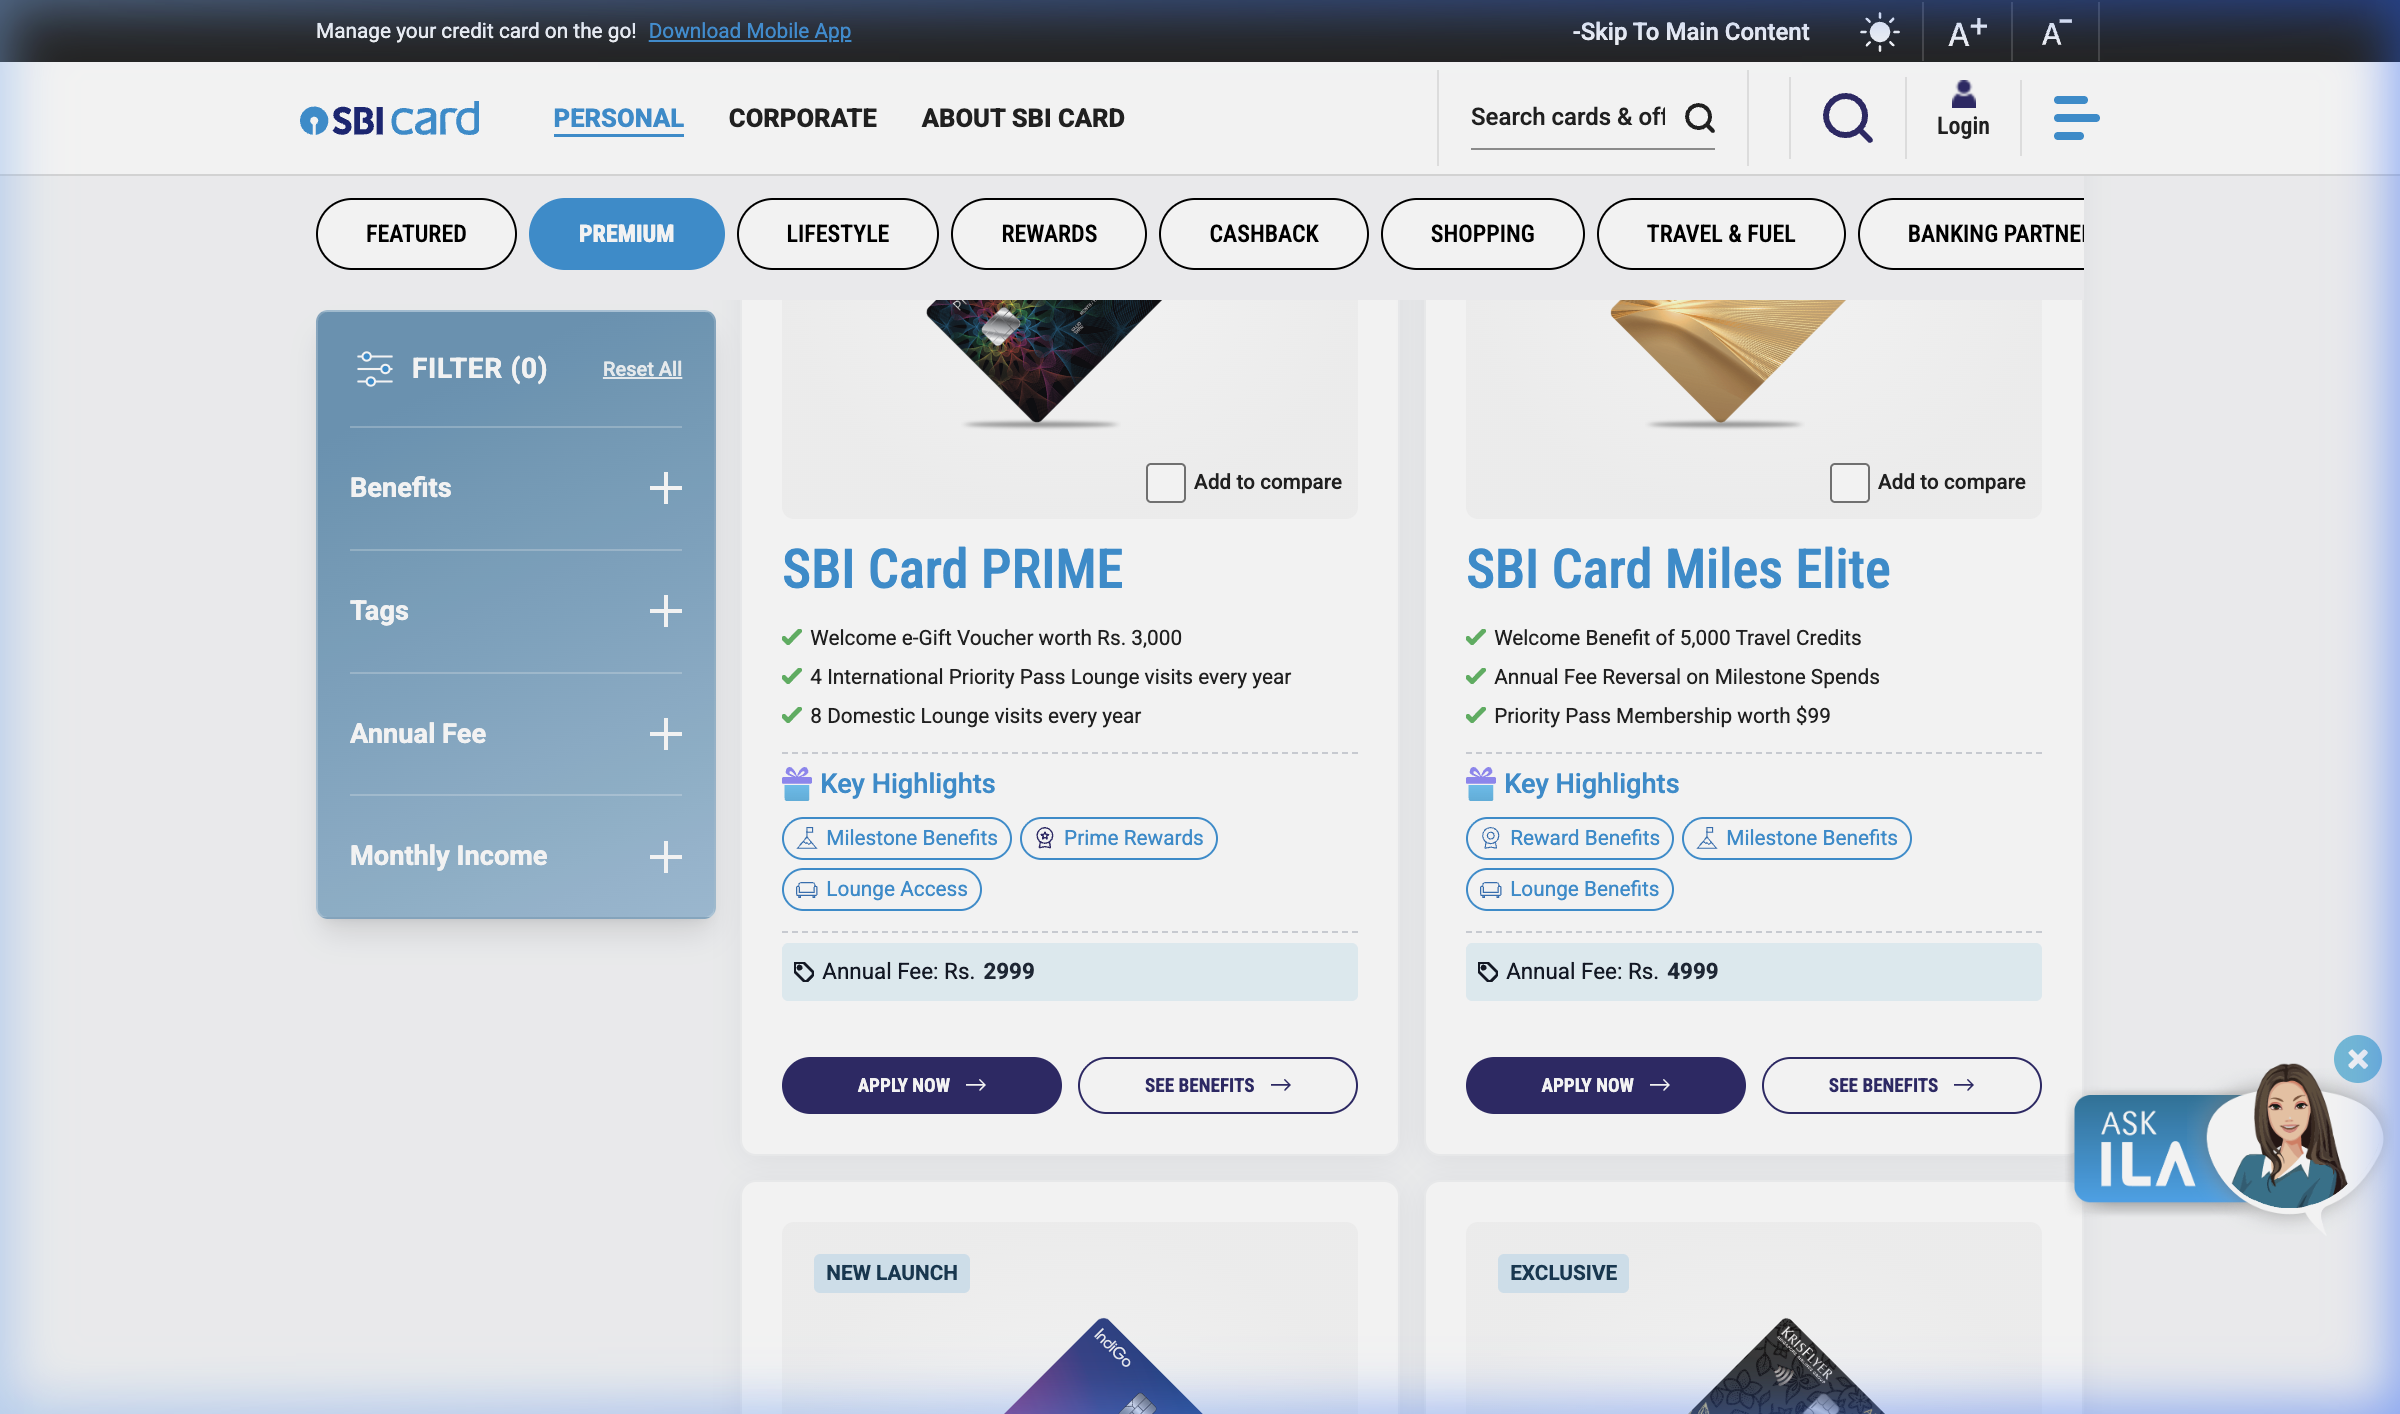
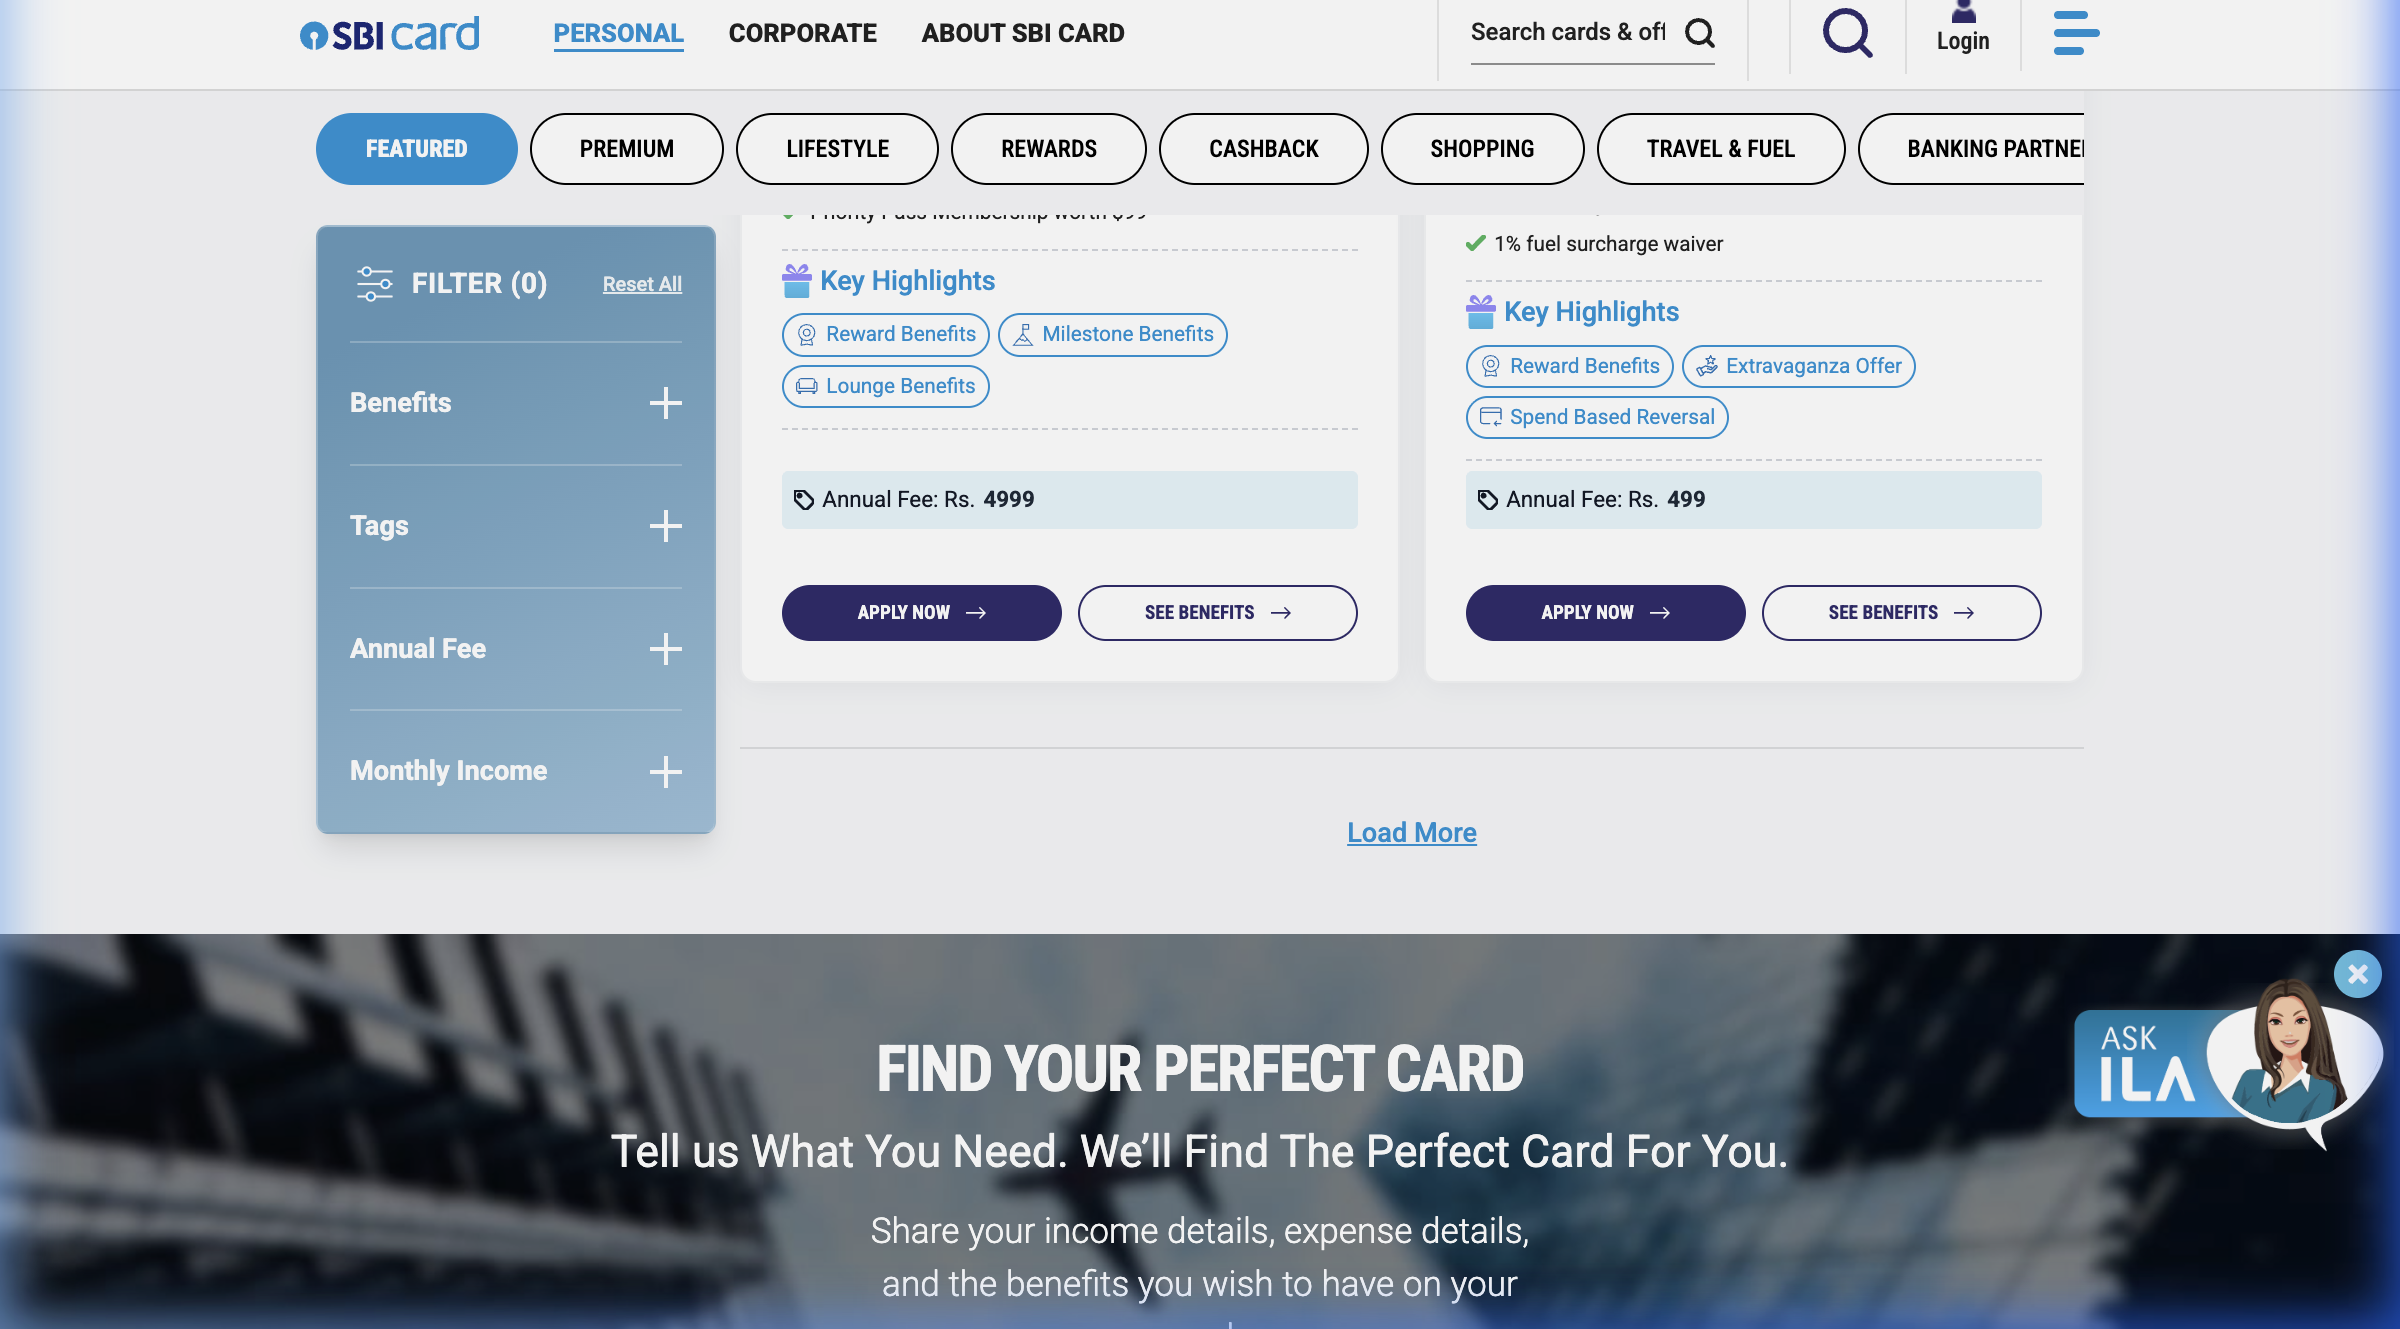
Position the Indian personas image borderless at the absolute bottom-right of the hero section

diff --git a/style.css b/style.css
@@ -338,74 +338,42 @@ body.has-promo .nav {
   justify-content: flex-start;
 }
 
-.hero__mockup-container {
+.hero__right-placeholder {
   position: relative;
-  width: 100%;
-  max-width: 400px;
-  display: flex;
-  justify-content: center;
-  align-items: center;
-  padding: 20px;
-}
-
-.persona-frame {
-  width: 320px;
-  height: 400px;
-  border-radius: 36px;
-  border: 4px solid rgba(255, 255, 255, 0.5);
-  overflow: hidden;
-  position: relative;
-  box-shadow: 0 24px 60px rgba(0, 33, 71, 0.25);
-  background: rgba(255, 255, 255, 0.1);
-  backdrop-filter: blur(10px);
-}
-
-.persona-frame__img {
   width: 100%;
   height: 100%;
-  object-fit: cover;
-  object-position: center bottom;
+  min-height: 480px;
 }
 
-.persona-frame__overlay-card {
+.hero__right {
   position: absolute;
-  bottom: 16px;
-  left: 16px;
-  right: 16px;
-  background: rgba(255, 255, 255, 0.85);
-  backdrop-filter: blur(12px);
-  -webkit-backdrop-filter: blur(12px);
-  border: 1px solid rgba(255, 255, 255, 0.4);
-  border-radius: 18px;
-  padding: 10px 14px;
+  right: 0;
+  bottom: 0;
+  width: 50%;
+  height: 100%;
   display: flex;
-  align-items: center;
-  gap: 10px;
-  box-shadow: 0 8px 24px rgba(0, 33, 71, 0.15);
+  justify-content: flex-end;
+  align-items: flex-end;
+  z-index: 1;
+  pointer-events: none;
 }
 
-.overlay-card__logo img {
-  height: 24px;
-  width: auto;
-}
-
-.overlay-card__info {
+.hero__personas-wrap {
+  width: 100%;
+  height: 100%;
   display: flex;
-  flex-direction: column;
+  justify-content: flex-end;
+  align-items: flex-end;
+  position: relative;
+  -webkit-mask-image: linear-gradient(135deg, transparent 15%, black 45%);
+  mask-image: linear-gradient(135deg, transparent 15%, black 45%);
 }
 
-.overlay-card__label {
-  font-size: 11px;
-  color: var(--color-muted);
-  text-transform: uppercase;
-  letter-spacing: 0.5px;
-  font-weight: 600;
-}
-
-.overlay-card__value {
-  font-size: 13px;
-  font-weight: 700;
-  color: var(--color-navy);
+.hero__personas-img {
+  max-width: 100%;
+  max-height: 85%;
+  object-fit: contain;
+  object-position: right bottom;
 }
 
 .floating-badge {
@@ -432,20 +400,20 @@ body.has-promo .nav {
 }
 
 .badge-1 {
-  top: 10%;
-  left: -30px;
+  top: 15%;
+  left: 20px;
   animation: float-badge-1 5s ease-in-out infinite;
 }
 
 .badge-2 {
-  bottom: 28%;
-  right: -40px;
+  top: 45%;
+  right: 10px;
   animation: float-badge-2 6s ease-in-out infinite;
 }
 
 .badge-3 {
-  bottom: 8%;
-  left: -20px;
+  bottom: 15%;
+  left: 40px;
   animation: float-badge-3 5.5s ease-in-out infinite;
 }
 

diff --git a/index.html b/index.html
@@ -124,38 +124,28 @@
       </div>
     </div>
 
-    <!-- Right Column: Visual Mockup -->
-    <div class="hero__right">
-      <div class="hero__mockup-container">
-        <!-- Floating Glass Badges -->
-        <div class="floating-badge badge-1">
-          <span class="badge-icon">👥</span>
-          <span class="badge-text">450M+ Customers</span>
-        </div>
-        <div class="floating-badge badge-2">
-          <span class="badge-icon">🏛️</span>
-          <span class="badge-text">22,000+ Branches</span>
-        </div>
-        <div class="floating-badge badge-3">
-          <span class="badge-icon">💳</span>
-          <span class="badge-text">62,000+ ATMs</span>
-        </div>
-        
-        <!-- Persona Frame -->
-        <div class="persona-frame">
-          <img src="images/hero_personas.png" alt="SBI Personas (Student, Salaried, Retiree)" class="persona-frame__img" />
-          <!-- Inner card overlay -->
-          <div class="persona-frame__overlay-card">
-            <div class="overlay-card__logo">
-              <img src="images/SBI-Logo-new-removebg-preview.webp" alt="SBI" />
-            </div>
-            <div class="overlay-card__info">
-              <span class="overlay-card__label">SBI YONO Accounts</span>
-              <span class="overlay-card__value">Active & Secure</span>
-            </div>
-          </div>
-        </div>
+    <!-- Right Column Placeholder for Spacing & Floating Badges -->
+    <div class="hero__right-placeholder">
+      <!-- Floating Glass Badges -->
+      <div class="floating-badge badge-1">
+        <span class="badge-icon">👥</span>
+        <span class="badge-text">450M+ Customers</span>
       </div>
+      <div class="floating-badge badge-2">
+        <span class="badge-icon">🏛️</span>
+        <span class="badge-text">22,000+ Branches</span>
+      </div>
+      <div class="floating-badge badge-3">
+        <span class="badge-icon">💳</span>
+        <span class="badge-text">62,000+ ATMs</span>
+      </div>
+    </div>
+  </div>
+
+  <!-- Absolute bottom-fixed personas image -->
+  <div class="hero__right">
+    <div class="hero__personas-wrap">
+      <img src="images/hero_personas.png" alt="SBI Personas (Student, Salaried, Retiree)" class="hero__personas-img" />
     </div>
   </div>
 </section>

diff --git a/detect_sky_img.py b/detect_sky_img.py
@@ -1,0 +1,45 @@
+from PIL import Image
+import os
+
+media_dir = "/Users/simran/.gemini/antigravity-ide/brain/7440bd93-b981-4fcc-8768-153bbbfb328b/.tempmediaStorage"
+files = [f for f in os.listdir(media_dir) if f.startswith("media_") and f.endswith(".png")]
+
+for f in sorted(files):
+    path = os.path.join(media_dir, f)
+    try:
+        with Image.open(path) as img:
+            img = img.convert("RGB")
+            w, h = img.size
+            
+            # Check the top 80 pixels.
+            # Let's count how many pixels are sky blue vs browser gray.
+            gray_pixels = 0
+            sky_pixels = 0
+            for y in range(0, min(80, h)):
+                for x in range(0, w, 10):
+                    r, g, b = img.getpixel((x, y))
+                    # Browser tab/toolbar gray is typically around (240, 240, 240) or (242, 243, 245) or (147, 151, 159)
+                    if abs(r - g) < 10 and abs(g - b) < 10 and r > 120:
+                        gray_pixels += 1
+                    # Sky blue is typically R=~90-130, G=~150-180, B=~220-250
+                    if 80 < r < 160 and 130 < g < 200 and 200 < b < 255:
+                        sky_pixels += 1
+                        
+            total_checked = w // 10 * min(80, h)
+            gray_pct = (gray_pixels / total_checked) * 100
+            sky_pct = (sky_pixels / total_checked) * 100
+            
+            # If sky percentage is high (>50%) and gray is low, this is a sky image!
+            if sky_pct > 30:
+                print(f"MATCH FOUND: {f} is a sky image!")
+                print(f"  Dimensions: {w}x{h}")
+                print(f"  Sky pixel % in top 80px: {sky_pct:.1f}%")
+                print(f"  Gray pixel % in top 80px: {gray_pct:.1f}%")
+                print("-" * 50)
+            else:
+                # Print stats for other images for debugging
+                if sky_pct > 5 or gray_pct < 20:
+                    print(f"File: {f}, Size: {w}x{h}, Sky%: {sky_pct:.1f}%, Gray%: {gray_pct:.1f}%")
+                    
+    except Exception as e:
+        pass